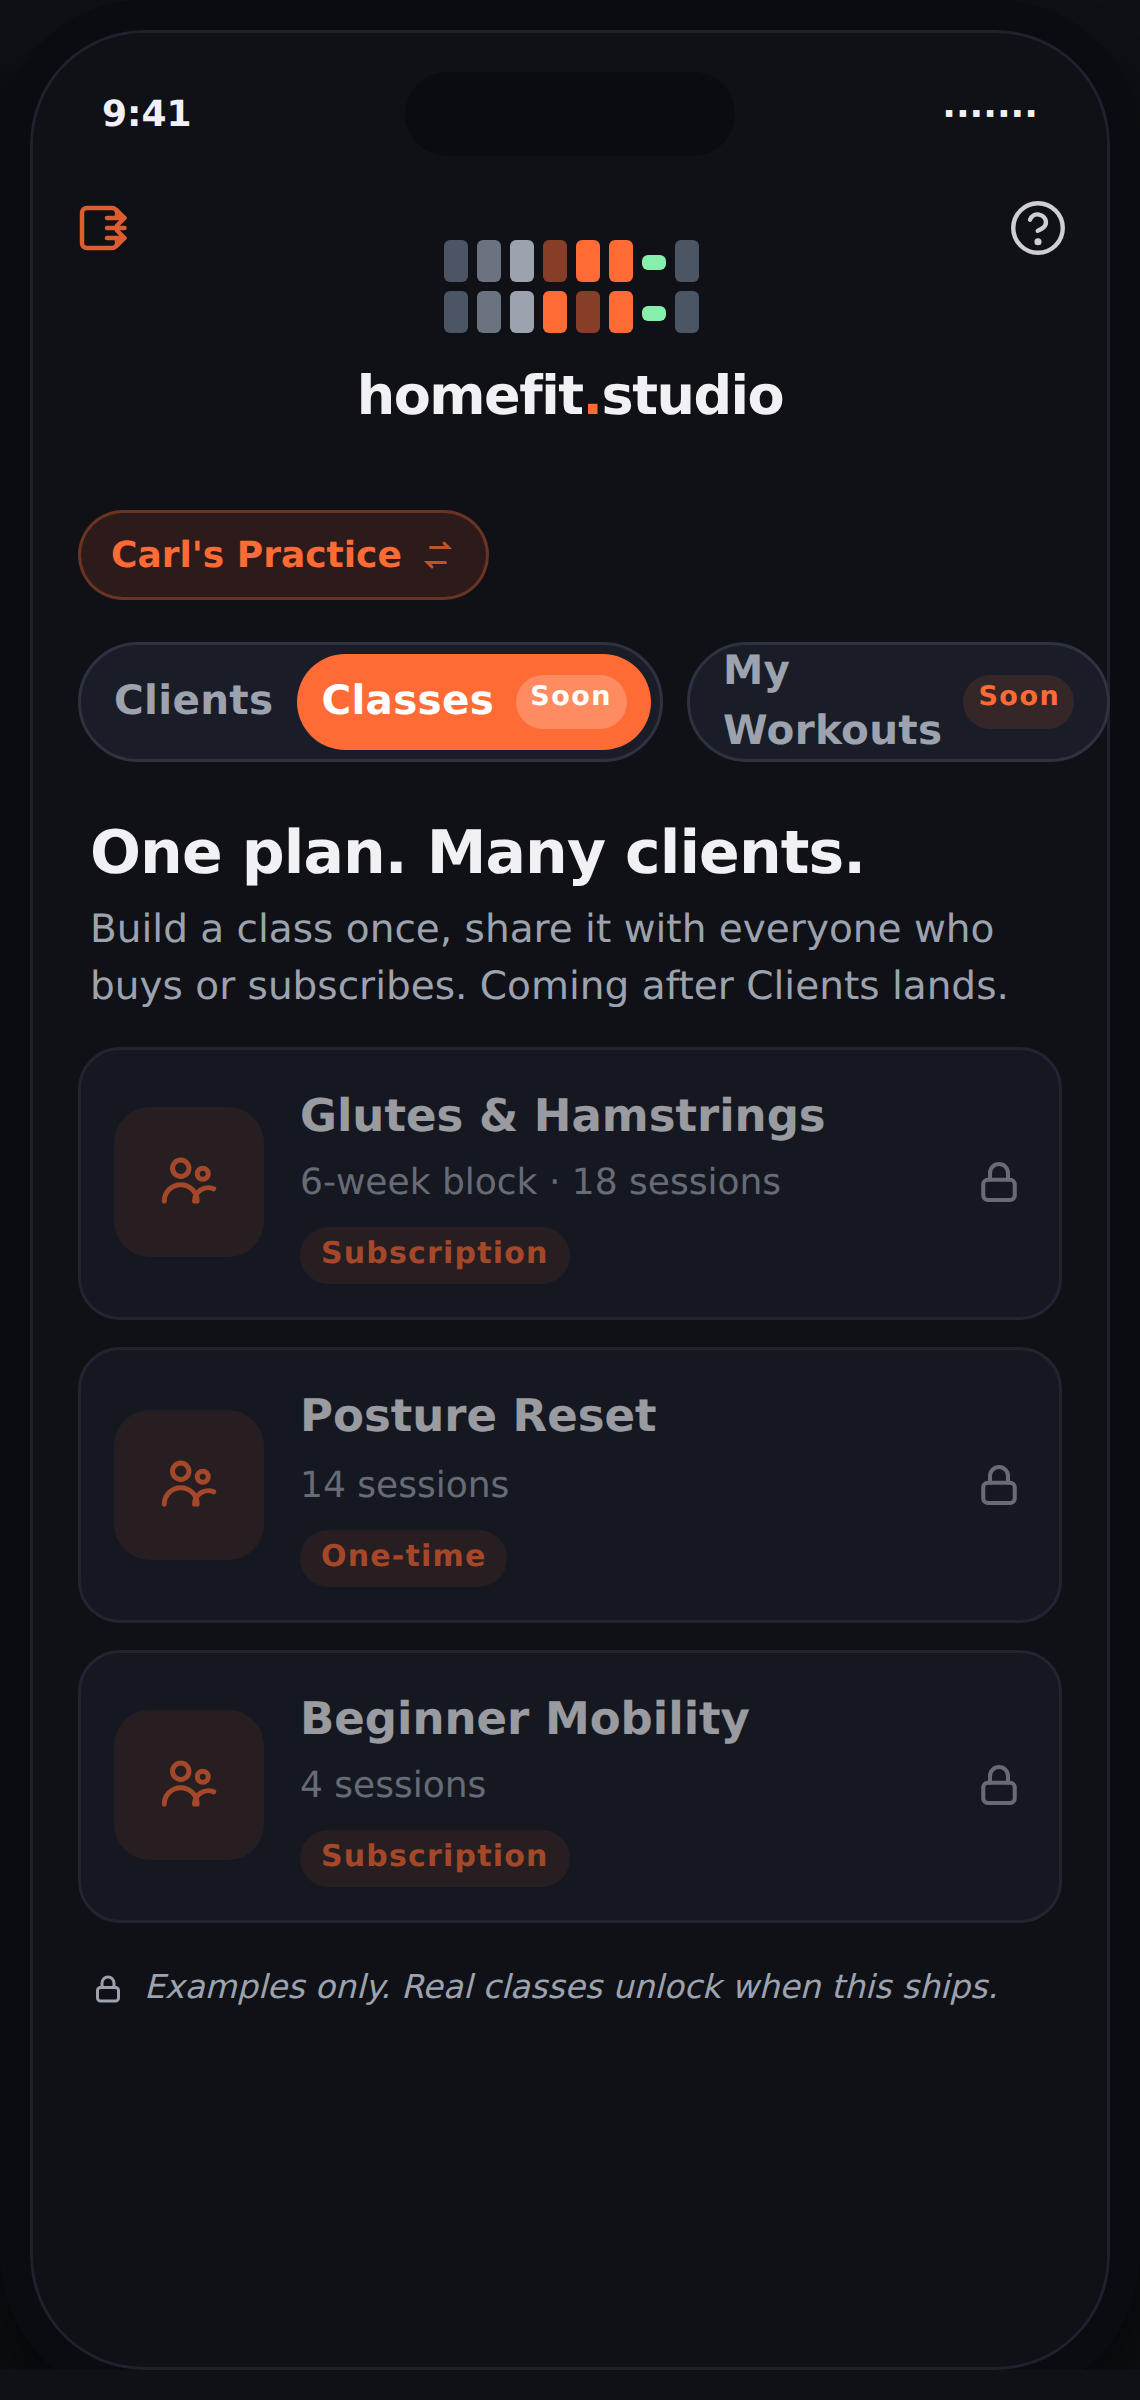
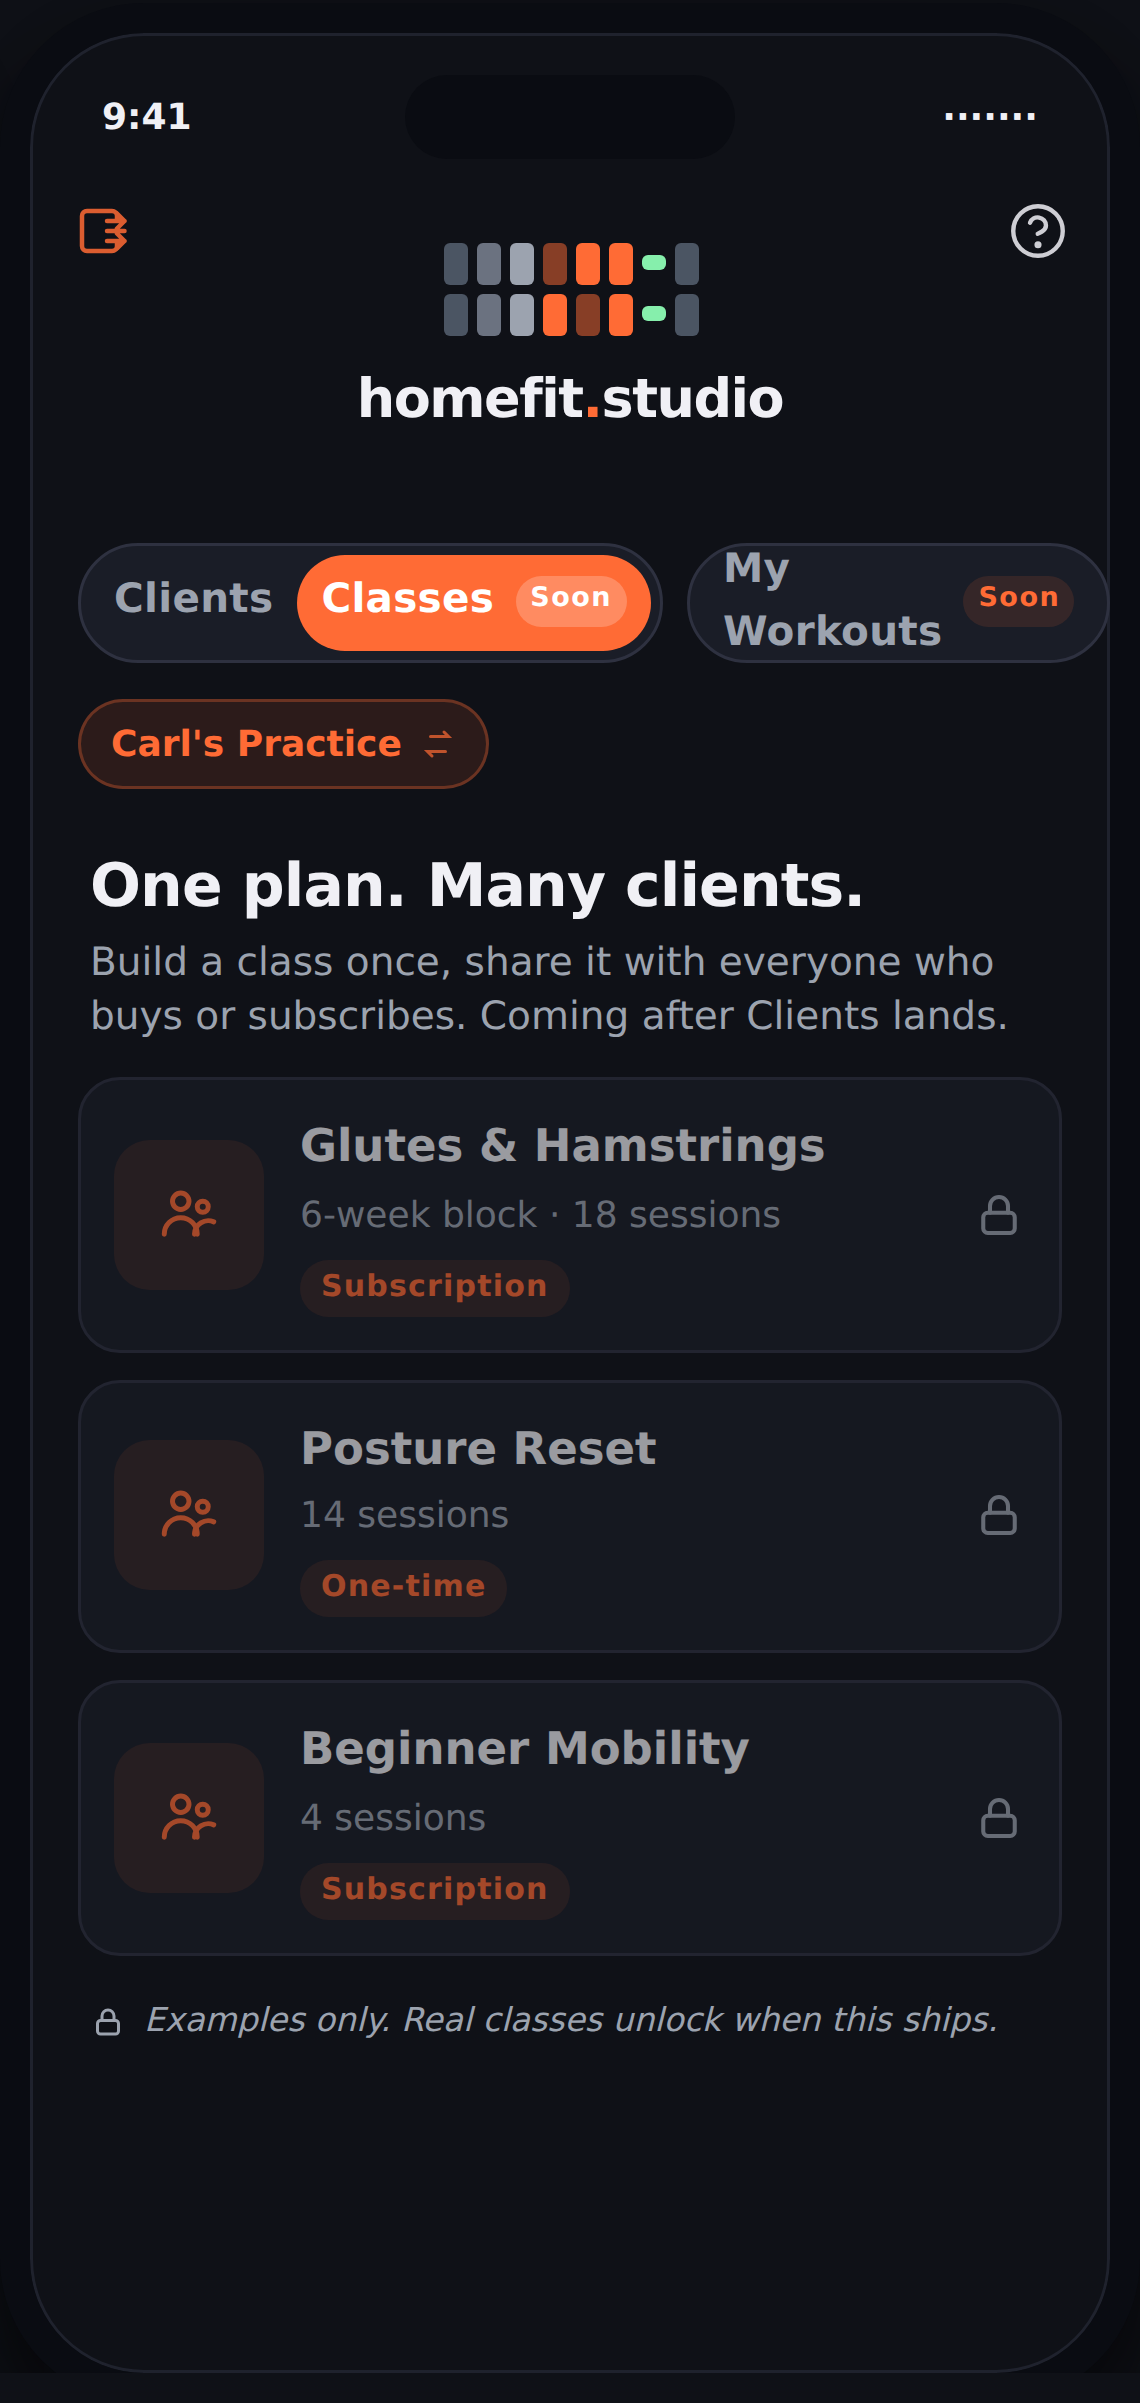
docs(design): anchor identity chips below scope row
Move Practice + Credits chips from above the scope row to BELOW it,
visibly owned by the Practice capsule. My Workouts mode now drops the
identity row entirely (no fade, no placeholder).

Per-mode chip rendering:
  Clients   → Practice chip + Credits chip
  Classes   → Practice chip only (credits irrelevant for subscriptions)
  Workouts  → Row not rendered at all

Body slides up ~32px on Workouts; recommend 180ms ease in the Flutter
implementation so the layout shift reads as a deliberate mode change.

diff --git a/docs/design/mockups/home-app-shell.html b/docs/design/mockups/home-app-shell.html
@@ -222,14 +222,16 @@
     }
     .logo-word .accent { color: var(--brand-default); }
 
+    /* Identity row now sits BELOW the scope row, anchored to the
+       Practice capsule. Renders only when scope ∈ {Clients, Classes};
+       absent entirely on My Workouts. */
     .identity-row {
       display: flex;
       align-items: center;
       gap: 8px;
-      padding: 0 4px 4px;
-      min-height: 28px;
+      padding: 8px 16px 6px;
+      min-height: 32px;
     }
-    .identity-row.empty { opacity: 0; }
 
     .practice-chip {
       display: inline-flex;
@@ -783,11 +785,14 @@
         row. The left capsule is <em>Practice mode</em> with its internal
         <em>Clients / Classes</em> scope split. The right capsule is
         <em>My Workouts</em> — a separate identity (consumer, not
-        creator) with no practice context and no credits. Practice chip +
-        credits chip are anchored to the left capsule and fade when the
-        user flips to My Workouts. Today, Classes and My Workouts are
-        locked teasers; when each ships, the only thing that changes is
-        the body — the shell stays exactly where it is.
+        creator) with no practice context and no credits. The Practice
+        chip + Credits chip sit <em>below</em> the scope row, anchored
+        to whichever scope they belong to: both on Clients, Practice
+        only on Classes (credits are irrelevant when classes monetize
+        via subscription), and the row isn't rendered at all on My
+        Workouts. Today, Classes and My Workouts are locked teasers;
+        when each ships, the only thing that changes is the body — the
+        shell stays exactly where it is.
       </p>
     </header>
 
@@ -825,10 +830,6 @@
                 </div>
                 <div class="logo-word">homefit<span class="accent">.</span>studio</div>
               </div>
-              <div class="identity-row">
-                <span class="practice-chip">Carl's Practice<svg class="swap" viewBox="0 0 24 24" fill="none" stroke="currentColor" stroke-width="2" stroke-linecap="round"><path d="M7 7h12l-3-3M17 17H5l3 3"/></svg></span>
-                <span class="credits-chip"><span class="count">28</span>credits</span>
-              </div>
             </div>
 
             <div class="scope-row">
@@ -839,6 +840,12 @@
               <div class="cap cap-workouts">
                 <div class="seg">My Workouts <span class="soon-pill">Soon</span></div>
               </div>
+            </div>
+
+            <!-- Identity row anchored UNDER the Practice capsule. -->
+            <div class="identity-row">
+              <span class="practice-chip">Carl's Practice<svg class="swap" viewBox="0 0 24 24" fill="none" stroke="currentColor" stroke-width="2" stroke-linecap="round"><path d="M7 7h12l-3-3M17 17H5l3 3"/></svg></span>
+              <span class="credits-chip"><span class="count">28</span>credits</span>
             </div>
 
             <div class="body">
@@ -894,11 +901,6 @@
                 </div>
                 <div class="logo-word">homefit<span class="accent">.</span>studio</div>
               </div>
-              <div class="identity-row">
-                <!-- Classes mode: practice chip still shows (you're still in a practice),
-                     credits chip is HIDDEN because Classes monetize via subscription, not credits. -->
-                <span class="practice-chip">Carl's Practice<svg class="swap" viewBox="0 0 24 24" fill="none" stroke="currentColor" stroke-width="2" stroke-linecap="round"><path d="M7 7h12l-3-3M17 17H5l3 3"/></svg></span>
-              </div>
             </div>
 
             <div class="scope-row">
@@ -909,6 +911,13 @@
               <div class="cap cap-workouts">
                 <div class="seg">My Workouts <span class="soon-pill">Soon</span></div>
               </div>
+            </div>
+
+            <!-- Classes mode: practice chip still shows (you're still inside a
+                 practice), credits chip is OMITTED — Classes monetize via
+                 subscription, not credits. -->
+            <div class="identity-row">
+              <span class="practice-chip">Carl's Practice<svg class="swap" viewBox="0 0 24 24" fill="none" stroke="currentColor" stroke-width="2" stroke-linecap="round"><path d="M7 7h12l-3-3M17 17H5l3 3"/></svg></span>
             </div>
 
             <div class="body" style="overflow:hidden;">
@@ -973,10 +982,6 @@
                   <div class="logo-cell"></div><div class="logo-cell g2"></div><div class="logo-cell g3"></div><div class="logo-cell brand"></div><div class="logo-cell brand-tint"></div><div class="logo-cell brand"></div><div class="logo-cell rest"></div><div class="logo-cell"></div>
                 </div>
                 <div class="logo-word">homefit<span class="accent">.</span>studio</div>
-              </div>
-              <!-- Identity row preserved (same height) but EMPTY in Workouts mode -->
-              <div class="identity-row empty">
-                <span class="practice-chip">placeholder</span>
               </div>
             </div>
 
@@ -1099,9 +1104,11 @@
     <section>
       <div class="section-head">
         <h2><span class="section-num">02</span>Chrome behaviour per mode</h2>
-        <p>Practice chip and credits chip are anchored to the left capsule.
-           They appear and disappear with the mode — never floating
-           ambiguously above a tab they don't apply to.</p>
+        <p>Practice chip and credits chip sit <em>below</em> the scope row,
+           anchored to whichever scope they belong to. The row collapses
+           entirely on My Workouts (no fade, no placeholder — just gone).
+           Body slides up by ~32px with a 180ms ease so the shift reads
+           as a deliberate mode change.</p>
       </div>
 
       <table class="diff-table">
@@ -1137,6 +1144,12 @@
             <td class="mode-a"><span class="yes">Visible</span></td>
             <td class="mode-b"><span class="yes">Visible</span></td>
             <td class="mode-c"><span class="yes">Visible</span></td>
+          </tr>
+          <tr>
+            <td class="element">Identity row (chip strip)</td>
+            <td class="mode-a"><span class="yes">Below scope row</span></td>
+            <td class="mode-b"><span class="yes">Below scope row</span></td>
+            <td class="mode-c"><span class="no">Not rendered</span></td>
           </tr>
           <tr>
             <td class="element">Network-share corner icon</td>
@@ -1179,9 +1192,9 @@
         <div class="callout">
           <h4>The conundrum is solved</h4>
           <ul>
-            <li>Credits live <em>inside</em> the Clients sub-tab — never floating where they're irrelevant.</li>
-            <li>Practice chip is anchored to the left capsule — fades when the user flips to My Workouts.</li>
-            <li>Two visually-distinct capsules tell the truth that Practice and My Workouts are different identities.</li>
+            <li>Practice + Credits chips sit <em>below</em> the scope row — visibly owned by the Practice capsule, never floating above a tab they don't apply to.</li>
+            <li>Credits show only on Clients; Classes monetizes via subscription so the chip is omitted there.</li>
+            <li>My Workouts mode drops the identity row entirely — consumer identity has no practice context.</li>
           </ul>
         </div>
         <div class="callout">
